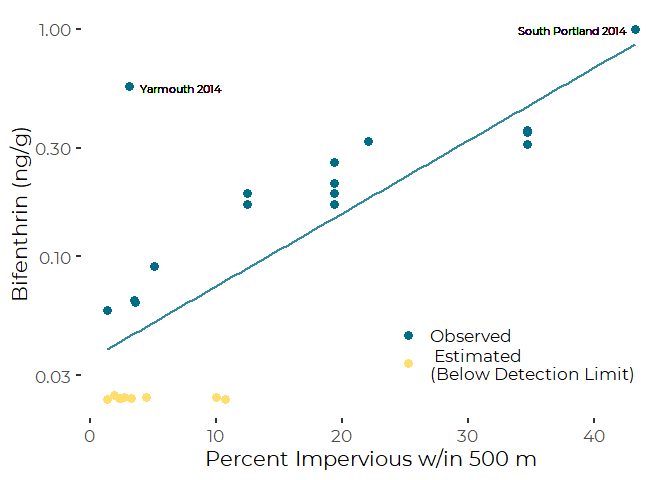
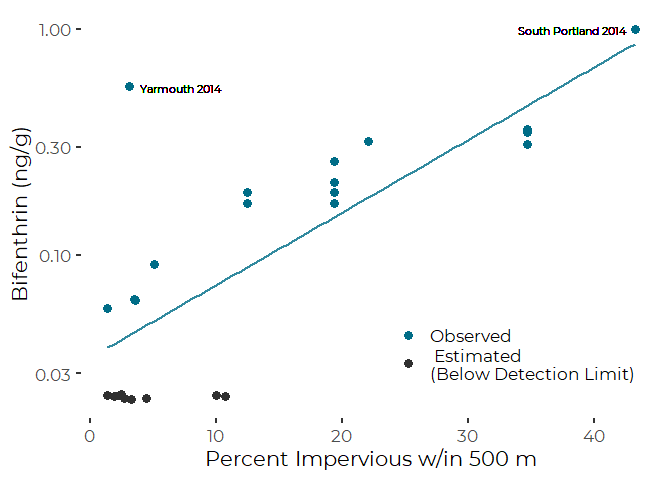
Change color of "non-detects" in graphics

diff --git a/Graphics/Pesticide_Graphics.md b/Graphics/Pesticide_Graphics.md
@@ -3,25 +3,25 @@ Prepare Sediment Bifenthrin Graphics
 Curtis C. Bohlen, Casco Bay Estuary Partnership.
 Revised October 13, 2020
 
-  - [Introduction](#introduction)
-  - [Load Libraries](#load-libraries)
-  - [Load Data](#load-data)
-      - [Folder References](#folder-references)
-      - [Load IC Data](#load-ic-data)
-      - [Load Pyrethroid Concentration
+-   [Introduction](#introduction)
+-   [Load Libraries](#load-libraries)
+-   [Load Data](#load-data)
+    -   [Folder References](#folder-references)
+    -   [Load IC Data](#load-ic-data)
+    -   [Load Pyrethroid Concentration
         Data](#load-pyrethroid-concentration-data)
-  - [Import IC metrics into
+-   [Import IC metrics into
     conc\_data](#import-ic-metrics-into-conc_data)
-  - [Principal Graphics](#principal-graphics)
-      - [Initial Graphic with Log-linear
+-   [Principal Graphics](#principal-graphics)
+    -   [Initial Graphic with Log-linear
         Model](#initial-graphic-with-log-linear-model)
-      - [Related Linear Models](#related-linear-models)
-          - [Linear Model](#linear-model)
-          - [Theil-Sen Resistent
+    -   [Related Linear Models](#related-linear-models)
+        -   [Linear Model](#linear-model)
+        -   [Theil-Sen Resistent
             Regression](#theil-sen-resistent-regression)
-          - [Showing the Resistant
+        -   [Showing the Resistant
             Regression](#showing-the-resistant-regression)
-  - [Concentrations on an Organic Carbon
+-   [Concentrations on an Organic Carbon
     Basis](#concentrations-on-an-organic-carbon-basis)
 
 <img
@@ -51,14 +51,22 @@ impervious surfaces (as a rough measure of urbanization).
 library(tidyverse)
 ```
 
-    ## -- Attaching packages ----------------------------------------------------------------------------------- tidyverse 1.3.0 --
+    ## Warning: package 'tidyverse' was built under R version 4.0.5
 
-    ## v ggplot2 3.3.2     v purrr   0.3.4
-    ## v tibble  3.0.3     v dplyr   1.0.2
-    ## v tidyr   1.1.2     v stringr 1.4.0
-    ## v readr   1.3.1     v forcats 0.5.0
+    ## -- Attaching packages --------------------------------------- tidyverse 1.3.1 --
 
-    ## -- Conflicts -------------------------------------------------------------------------------------- tidyverse_conflicts() --
+    ## v ggplot2 3.3.3     v purrr   0.3.4
+    ## v tibble  3.1.2     v dplyr   1.0.6
+    ## v tidyr   1.1.3     v stringr 1.4.0
+    ## v readr   1.4.0     v forcats 0.5.1
+
+    ## Warning: package 'tidyr' was built under R version 4.0.5
+
+    ## Warning: package 'dplyr' was built under R version 4.0.5
+
+    ## Warning: package 'forcats' was built under R version 4.0.5
+
+    ## -- Conflicts ------------------------------------------ tidyverse_conflicts() --
     ## x dplyr::filter() masks stats::filter()
     ## x dplyr::lag()    masks stats::lag()
 
@@ -148,7 +156,7 @@ plt <- ggplot(conc_data, aes(pct500, Bifenthrin_ML)) +
   theme_cbep() +
   theme(legend.position=c(0.75, 0.2)) +
   
-  scale_color_manual(values = cbep_colors(), name = '',
+  scale_color_manual(values = cbep_colors()[c(1,3)], name = '',
                      labels = c('Observed', ' Estimated\n(Below Detection Limit)')) +
   scale_y_log10() +
   
@@ -173,7 +181,7 @@ ggsave('BifenthrinWW.pdf', device = cairo_pdf, width = 7, height = 5)
     ## `geom_smooth()` using formula 'y ~ x'
 
     ## Warning: Removed 4 rows containing non-finite values (stat_smooth).
-    
+
     ## Warning: Removed 4 rows containing missing values (geom_point).
 
 ## Related Linear Models
@@ -198,19 +206,19 @@ summary(the_lm)
     ## 
     ## Residuals:
     ##      Min       1Q   Median       3Q      Max 
-    ## -0.52071 -0.23908 -0.02186  0.16580  1.10061 
+    ## -0.51492 -0.23495 -0.02174  0.16757  1.10260 
     ## 
     ## Coefficients:
     ##              Estimate Std. Error t value Pr(>|t|)    
-    ## (Intercept) -1.451785   0.097796 -14.845 1.36e-13 ***
-    ## pct500       0.032052   0.005165   6.206 2.06e-06 ***
+    ## (Intercept) -1.454017   0.098072 -14.826 1.40e-13 ***
+    ## pct500       0.032131   0.005179   6.203 2.07e-06 ***
     ## ---
     ## Signif. codes:  0 '***' 0.001 '**' 0.01 '*' 0.05 '.' 0.1 ' ' 1
     ## 
-    ## Residual standard error: 0.3372 on 24 degrees of freedom
+    ## Residual standard error: 0.3381 on 24 degrees of freedom
     ##   (4 observations deleted due to missingness)
-    ## Multiple R-squared:  0.6161, Adjusted R-squared:  0.6001 
-    ## F-statistic: 38.51 on 1 and 24 DF,  p-value: 2.058e-06
+    ## Multiple R-squared:  0.6159, Adjusted R-squared:  0.5999 
+    ## F-statistic: 38.48 on 1 and 24 DF,  p-value: 2.07e-06
 
 ### Theil-Sen Resistent Regression
 
@@ -252,16 +260,16 @@ summary(the_mblm)
     ## 
     ## Residuals:
     ##      Min       1Q   Median       3Q      Max 
-    ## -1.53120 -0.87485 -0.40064  0.05394  2.20897 
+    ## -1.52109 -0.87019 -0.40064  0.05394  2.20897 
     ## 
     ## Coefficients:
     ##             Estimate      MAD V value Pr(>|V|)    
-    ## (Intercept) -3.02041  0.15766       0  8.8e-06 ***
-    ## pct500       0.07472  0.01640     347  1.4e-05 ***
+    ## (Intercept) -3.02041  0.15766       0 8.80e-06 ***
+    ## pct500       0.07472  0.01710     348 1.25e-05 ***
     ## ---
     ## Signif. codes:  0 '***' 0.001 '**' 0.01 '*' 0.05 '.' 0.1 ' ' 1
     ## 
-    ## Residual standard error: 0.8513 on 24 degrees of freedom
+    ## Residual standard error: 0.8544 on 24 degrees of freedom
 
 ``` r
 cor.test(tmp$pct500,tmp$log_bifenthrin, method = 'kendall')
@@ -274,11 +282,11 @@ cor.test(tmp$pct500,tmp$log_bifenthrin, method = 'kendall')
     ##  Kendall's rank correlation tau
     ## 
     ## data:  tmp$pct500 and tmp$log_bifenthrin
-    ## z = 4.3658, p-value = 1.267e-05
+    ## z = 4.2328, p-value = 2.308e-05
     ## alternative hypothesis: true tau is not equal to 0
     ## sample estimates:
     ##       tau 
-    ## 0.6225269
+    ## 0.6035667
 
 We create a dataframe to pass to ggplot to generate the regression line
 in our plot
@@ -305,7 +313,7 @@ plt <- ggplot(tmp, aes(pct500, Bifenthrin_ML)) +
   theme_cbep() +
   theme(legend.position=c(0.75, 0.2)) +
   
-  scale_color_manual(values = cbep_colors(), name = '',
+  scale_color_manual(values = cbep_colors()[c(1,3)], name = '',
                      labels = c('Observed', ' Estimated\n(Below Detection Limit)')) +
   scale_y_log10() +
   
@@ -346,16 +354,16 @@ summary(the_mblm)
     ## 
     ## Residuals:
     ##      Min       1Q   Median       3Q      Max 
-    ## -1.45609 -0.34276 -0.07628  0.30884  1.71294 
+    ## -1.48454 -0.29097 -0.06823  0.33060  1.71681 
     ## 
     ## Coefficients:
     ##             Estimate     MAD V value Pr(>|V|)    
-    ## (Intercept)  2.05700 0.17470     351 2.98e-08 ***
-    ## pct500       0.06177 0.01463     350 5.96e-08 ***
+    ## (Intercept)  2.05783 0.16835     351 2.98e-08 ***
+    ## pct500       0.06026 0.01432     350 5.96e-08 ***
     ## ---
     ## Signif. codes:  0 '***' 0.001 '**' 0.01 '*' 0.05 '.' 0.1 ' ' 1
     ## 
-    ## Residual standard error: 0.6559 on 24 degrees of freedom
+    ## Residual standard error: 0.6576 on 24 degrees of freedom
 
 ``` r
 cor.test(tmp$pct500,tmp$log_bifenthrin_oc, method = 'kendall')
@@ -396,7 +404,7 @@ plt <- ggplot(conc_data, aes(pct500, Bifenthrin_OC_QML)) +
   theme_cbep() +
   theme(legend.position=c(0.75, 0.2)) +
   
-  scale_color_manual(values = cbep_colors(), name = '',
+  scale_color_manual(values = cbep_colors()[c(1,3)], name = '',
                      labels = c('Observed', ' Estimated\n(Below Detection Limit)')) +
   scale_y_log10() +
   
